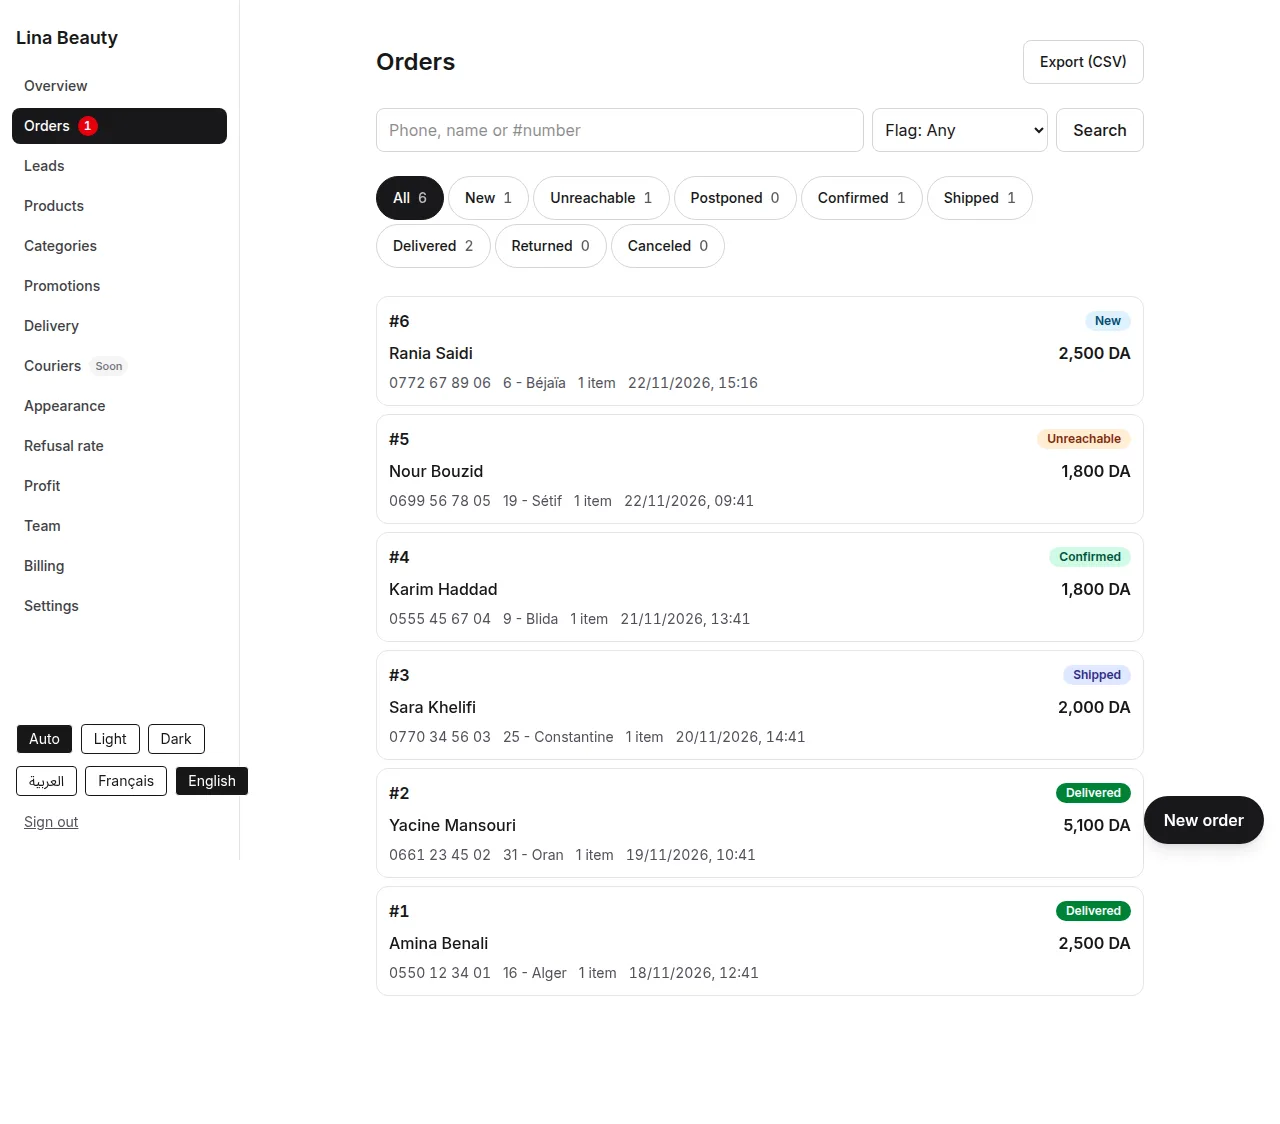
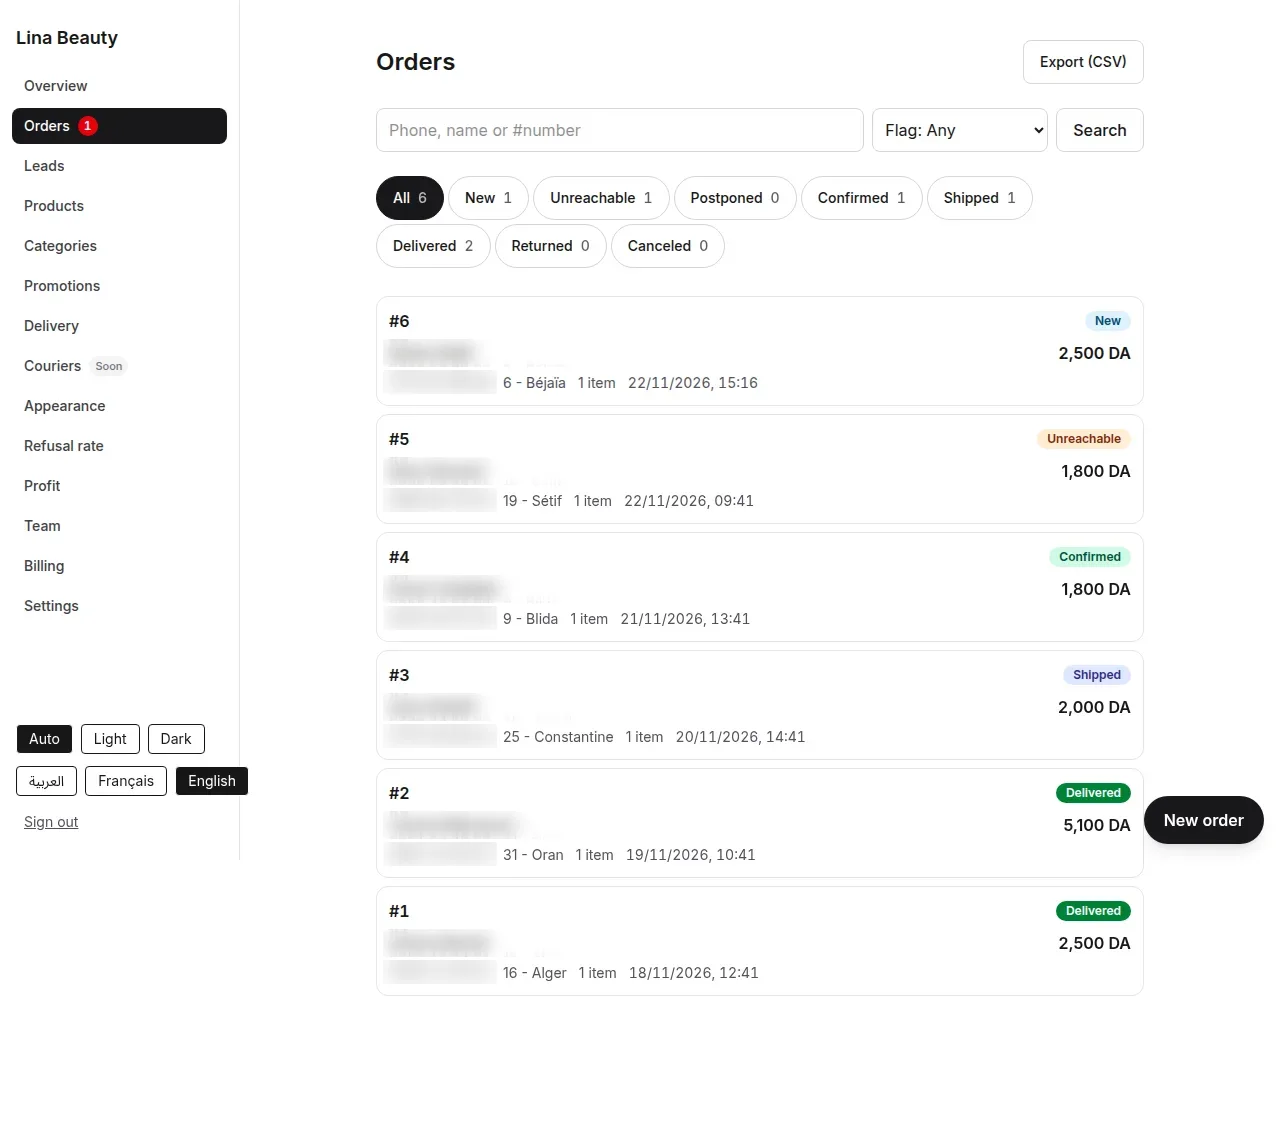
Animate how-it-works flows, align services, add project shortcuts

diff --git a/index.html b/index.html
@@ -296,13 +296,18 @@
   .mg-caption{padding:12px 16px;border-top:1px solid var(--line);font-size:.88rem;color:var(--muted);min-height:3.4em}
 
   /* LeadPilot: how it works, in plain words */
-  .lp-flow{flex:1;display:flex;flex-direction:column;justify-content:center;padding:28px 30px 30px}
-  .lp-steps{list-style:none;display:flex;flex-direction:column;gap:26px}
-  .lp-steps li{position:relative;display:grid;grid-template-columns:42px minmax(0,1fr);column-gap:16px;align-items:start}
-  .lp-steps li:not(:last-child)::after{content:"\2193";position:absolute;left:14px;bottom:-24px;font-family:var(--mono);font-size:15px;color:var(--accent)}
-  .lp-ico{grid-row:span 3;width:42px;height:42px;border-radius:12px;display:grid;place-items:center;background:var(--surface);border:1px solid var(--line-strong);color:var(--accent)}
+  .lp-flow{flex:1;display:flex;flex-direction:column;justify-content:center;padding:30px 34px}
+  /* steps sit on a rail; --fill (0..1) draws the lime progress line as each step lights up */
+  .lp-steps{list-style:none;display:flex;flex-direction:column;gap:6px;position:relative;--fill:0}
+  .lp-steps::before,.lp-steps::after{content:"";position:absolute;left:21px;top:33px;width:2px;border-radius:2px}
+  .lp-steps::before{bottom:33px;background:var(--line-strong)}
+  .lp-steps::after{height:calc((100% - 66px) * var(--fill));background:var(--accent);box-shadow:0 0 10px rgba(200,245,58,.45);transition:height .45s var(--ease)}
+  .lp-steps li{position:relative;z-index:1;display:grid;grid-template-columns:44px minmax(0,1fr);column-gap:16px;align-items:start;padding:11px 0}
+  .lp-ico{grid-row:span 3;width:44px;height:44px;border-radius:12px;display:grid;place-items:center;background:var(--surface);border:1px solid var(--line-strong);color:var(--faint);transition:color .4s,border-color .4s,box-shadow .4s}
   .lp-ico svg{width:20px;height:20px}
-  .lp-steps b{font-family:var(--display);font-weight:600;font-size:1.02rem;letter-spacing:-.01em;line-height:1.3}
+  .lp-steps li.lit .lp-ico{color:var(--accent);border-color:rgba(200,245,58,.5);box-shadow:0 0 0 4px rgba(200,245,58,.08)}
+  .lp-steps b{font-family:var(--display);font-weight:600;font-size:1.04rem;letter-spacing:-.01em;line-height:1.3;color:var(--muted);transition:color .4s}
+  .lp-steps li.lit b{color:var(--text)}
   .lp-steps .d{font-size:.9rem;color:var(--muted);line-height:1.45}
   .lp-dots{display:flex;gap:5px;margin:4px 0 2px}
   .lp-dots i{width:9px;height:9px;border-radius:50%}
@@ -334,7 +339,7 @@
   .svc-price{font-family:var(--display);font-weight:800;font-size:1.4rem;letter-spacing:-.01em}
   .svc-price small{font-family:var(--body);font-weight:500;font-size:.85rem;color:var(--muted);margin-right:5px;letter-spacing:0}
   .svc-time{font-family:var(--mono);font-size:12px;color:var(--faint)}
-  .svc-actions{display:flex;gap:10px;flex-wrap:wrap;margin-top:18px}
+  .svc-actions{display:flex;gap:10px;flex-wrap:wrap;align-items:flex-start;align-content:flex-start;margin-top:18px}
   .svc-actions a{font-family:var(--mono);font-size:13px;display:inline-flex;align-items:center;gap:6px;border:1px solid var(--line-strong);border-radius:8px;padding:8px 12px;transition:.2s;white-space:nowrap}
   .svc-actions a.main{background:var(--accent);border-color:var(--accent);color:#0a0a0a;font-weight:700}
   .svc-actions a:hover{border-color:var(--accent);color:var(--accent)}
@@ -347,6 +352,25 @@
   @media(max-width:960px){
     .services{grid-template-columns:1fr}
     .svc-steps{grid-template-columns:1fr;gap:18px}
+  }
+  /* side by side, the three cards share rows so pitch, list, price and buttons line up */
+  @media(min-width:961px){
+    @supports (grid-template-rows:subgrid){
+      .svc{display:grid;grid-row:span 6;grid-template-rows:subgrid;row-gap:0}
+      .svc-meta{margin-top:0}
+    }
+  }
+
+  /* project shortcuts under the work intro */
+  .p-index{display:flex;flex-wrap:wrap;gap:8px;margin:-24px 0 36px}
+  .p-index a{display:inline-flex;align-items:baseline;gap:8px;padding:7px 13px;border:1px solid var(--line);border-radius:30px;background:var(--surface);font-size:.92rem;transition:border-color .2s,color .2s}
+  .p-index a b{font-weight:600}
+  .p-index a span{font-size:.8rem;color:var(--faint)}
+  .p-index a:hover{border-color:var(--accent);color:var(--accent)}
+  @media(max-width:820px){
+    .p-index{flex-wrap:nowrap;overflow-x:auto;scroll-snap-type:x mandatory;margin:-12px -16px 28px;padding:0 16px 4px;scrollbar-width:none}
+    .p-index::-webkit-scrollbar{display:none}
+    .p-index a{flex:none;scroll-snap-align:start}
   }
 
   /* ---------- experience ---------- */
@@ -455,7 +479,7 @@
         <p class="hero-sub reveal">I build and ship web products end to end: <b>React</b> frontends, <b>FastAPI</b> backends, <b>AI</b> features, and the <b>DevOps</b> that runs them. 4 years in production, at home on <b>Linux</b>.</p>
         <div class="hero-actions reveal">
           <a href="#work" class="btn btn-primary">See my work</a>
-          <a href="#contact" class="btn btn-ghost">Get in touch</a>
+          <a href="#services" class="btn btn-ghost">Services &amp; prices</a>
         </div>
       </div>
       <div class="term reveal" role="img" aria-label="Terminal: code is pushed, CI passes, and the Docker services for a FastAPI, React, PostgreSQL and Nginx app start up.">
@@ -466,7 +490,7 @@
     </div>
     <div class="facts reveal">
       <div class="fact"><div class="num"><em data-count="4">4</em>+</div><div class="lbl">years shipping apps to production</div></div>
-      <div class="fact"><div class="num"><em data-count="2">2</em></div><div class="lbl">AI-powered products built end to end</div></div>
+      <div class="fact"><div class="num"><em data-count="3">3</em></div><div class="lbl">AI-powered products built end to end</div></div>
       <div class="fact"><div class="num"><em data-count="3">3</em></div><div class="lbl">interface languages: Arabic, French, English</div></div>
       <div class="fact"><div class="num"><em data-count="69">69</em></div><div class="lbl">wilayas covered by Matjari's checkout</div></div>
     </div>
@@ -480,6 +504,13 @@
       <span class="sec-line"></span>
     </div>
     <p class="sec-intro reveal">Four products I designed and built end to end, then smaller projects.</p>
+    <div class="p-index reveal" role="navigation" aria-label="Projects on this page">
+      <a href="#p-linguacards"><b>LinguaCards</b><span>AI learning app</span></a>
+      <a href="#p-matjari"><b>Matjari</b><span>E-commerce SaaS</span></a>
+      <a href="#p-leadpilot"><b>LeadPilot</b><span>AI automation</span></a>
+      <a href="#p-facturelens"><b>FactureLens</b><span>AI document reading</span></a>
+      <a href="#more"><b>More projects</b></a>
+    </div>
 
     <div class="projects">
       <article class="project spot reveal" id="p-linguacards">
@@ -664,7 +695,7 @@
       </article>
     </div>
 
-    <div class="more-head reveal">
+    <div class="more-head reveal" id="more">
       <h3>More projects</h3>
       <a href="https://github.com/abdelghani-djef" target="_blank" rel="noopener">All repositories on GitHub &#8599;</a>
     </div>
@@ -1111,6 +1142,22 @@ app = <span class="f">FastAPI</span>()
     setTimeout(() => { copyBtn.textContent = lang === 'fr' ? 'Copier l’adresse' : 'Copy address'; copyBtn.dataset.done = 'false'; }, 2200);
   });
 
+  /* how-it-works flows: light each step in order the first time the flow scrolls into view */
+  document.querySelectorAll('.lp-steps').forEach(list => {
+    const steps = [...list.children];
+    const light = n => {
+      steps.forEach((s, i) => s.classList.toggle('lit', i < n));
+      list.style.setProperty('--fill', n <= 1 ? 0 : (n - 1) / (steps.length - 1));
+    };
+    if (reduceMotion) { light(steps.length); return; }
+    const flowIO = new IntersectionObserver(([e]) => {
+      if (!e.isIntersecting) return;
+      flowIO.disconnect();
+      steps.forEach((_, i) => setTimeout(() => light(i + 1), 250 + i * 480));
+    }, {threshold: .45});
+    flowIO.observe(list);
+  });
+
   /* language: English in the HTML, French below, keyed by each element's English text */
   const FR = {
       "work": "projets",
@@ -1122,7 +1169,7 @@ app = <span class="f">FastAPI</span>()
       "Full-stack developer": "Développeur full-stack",
       "I build and ship web products end to end: React frontends, FastAPI backends, AI features, and the DevOps that runs them. 4 years in production, at home on Linux.": "Je conçois et livre des produits web de A à Z : des interfaces <b>React</b>, des backends <b>FastAPI</b>, des fonctionnalités d'<b>IA</b> et le <b>DevOps</b> qui les fait tourner. 4 ans en production, à l'aise sous <b>Linux</b>.",
       "See my work": "Voir mes projets",
-      "Get in touch": "Me contacter",
+      "Services & prices": "Services et tarifs",
       "years shipping apps to production": "ans à livrer des applications en production",
       "AI-powered products built end to end": "produits avec IA conçus de A à Z",
       "interface languages: Arabic, French, English": "langues d'interface : arabe, français, anglais",
